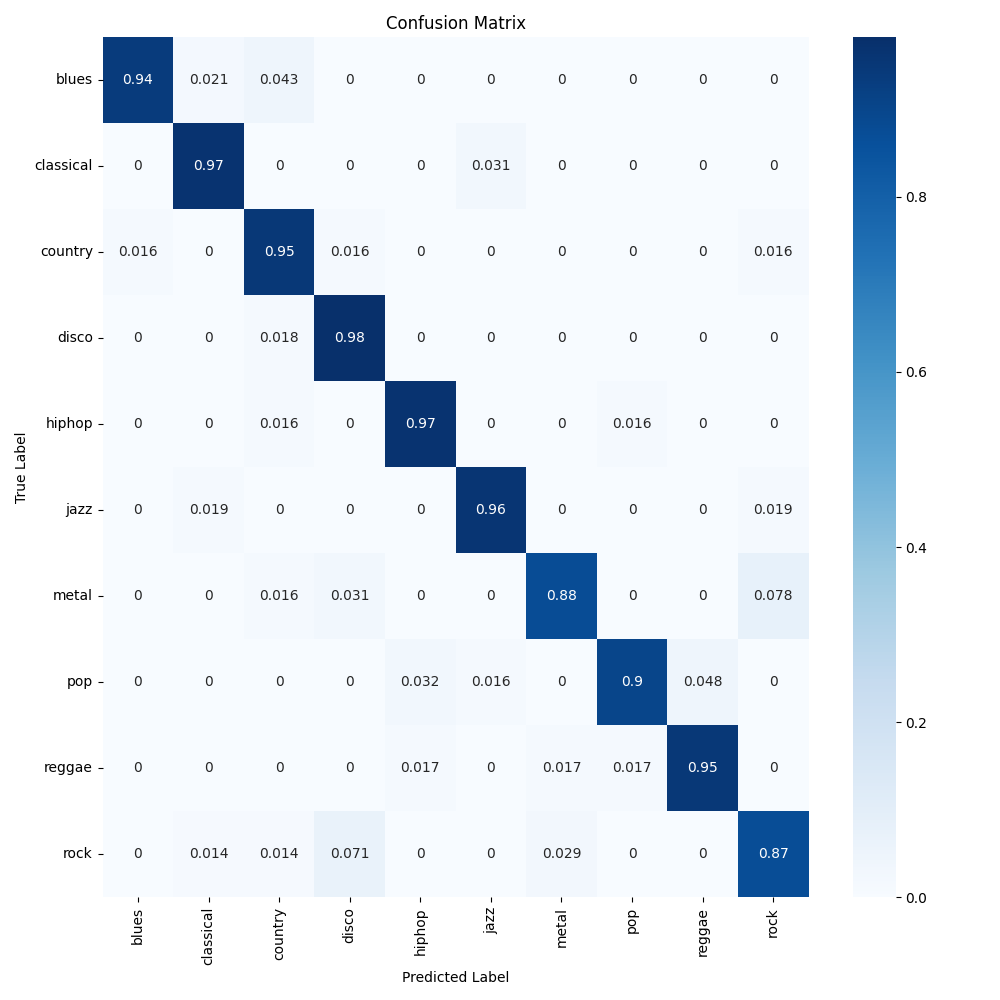
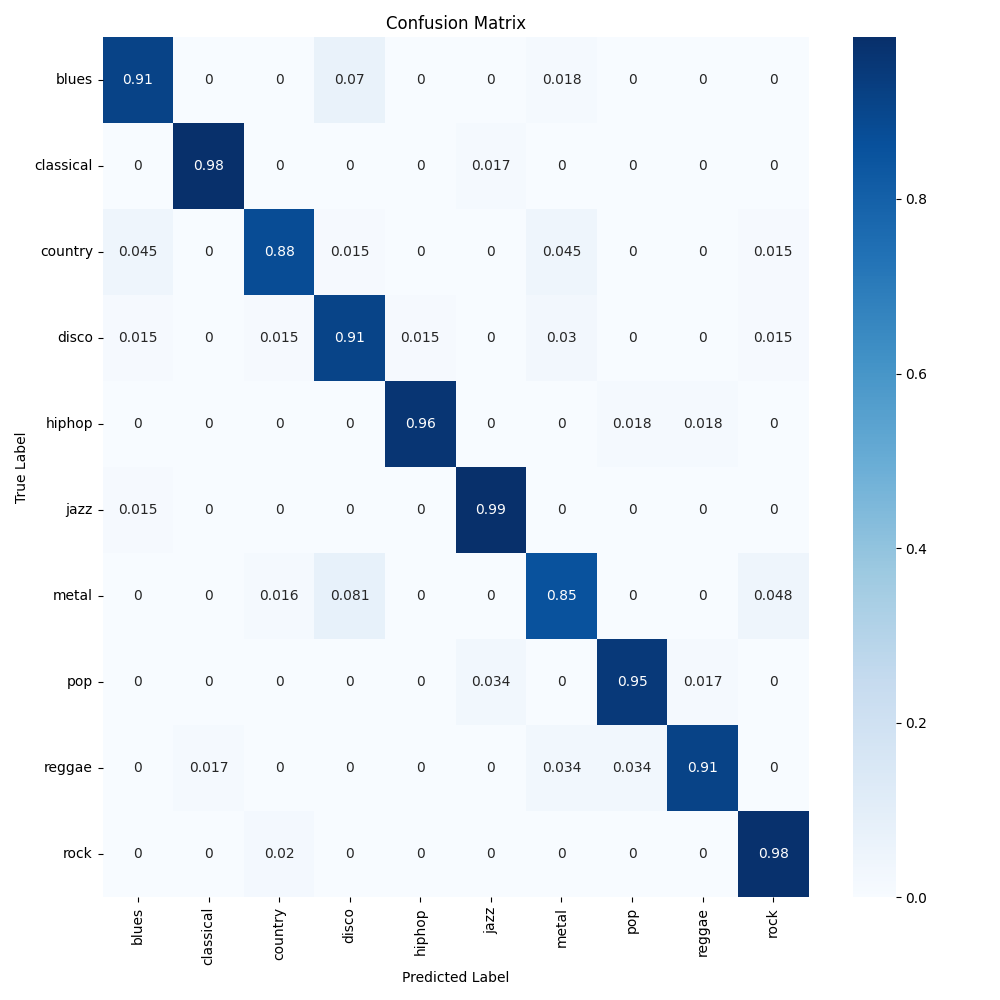
commit
commit

diff --git a/4.xgboost/Xgboost6 코드 설명.md b/4.xgboost/Xgboost6 코드 설명.md
@@ -67,7 +67,41 @@ xgb_model = xgb.XGBClassifier(tree_method='gpu_hist', gpu_id=0) if check_gpu() e
 **disco2.wav 코드 실행 결과**
 
 ```
+GPU가 있습니다.
+최적의 하이퍼파라미터: {'learning_rate': 0.17004834788079481, 'max_depth': 26, 'min_child_weight': 4, 'n_estimators': 260}
+0-3초
+예측한 음악 장르: classical
+
+3-6초
+예측한 음악 장르: classical
+
+6-9초
+예측한 음악 장르: classical
+
+9-12초
+예측한 음악 장르: classical
+
+12-15초
+예측한 음악 장르: classical
+
+15-18초
+예측한 음악 장르: classical
+
+18-21초
+예측한 음악 장르: classical
+
+21-24초
+예측한 음악 장르: classical
+
+24-27초
+예측한 음악 장르: classical
+
+27-30초
+예측한 음악 장르: classical
+
+정확도: 93.17%
+교차 검증된 정확도: 91.33%
 
 ```
 
-![]()
+![](https://github.com/ZBDS11ML3/ML_jieun/blob/main/0.Confusion_matrix/Xgboost6_disco2.png)
